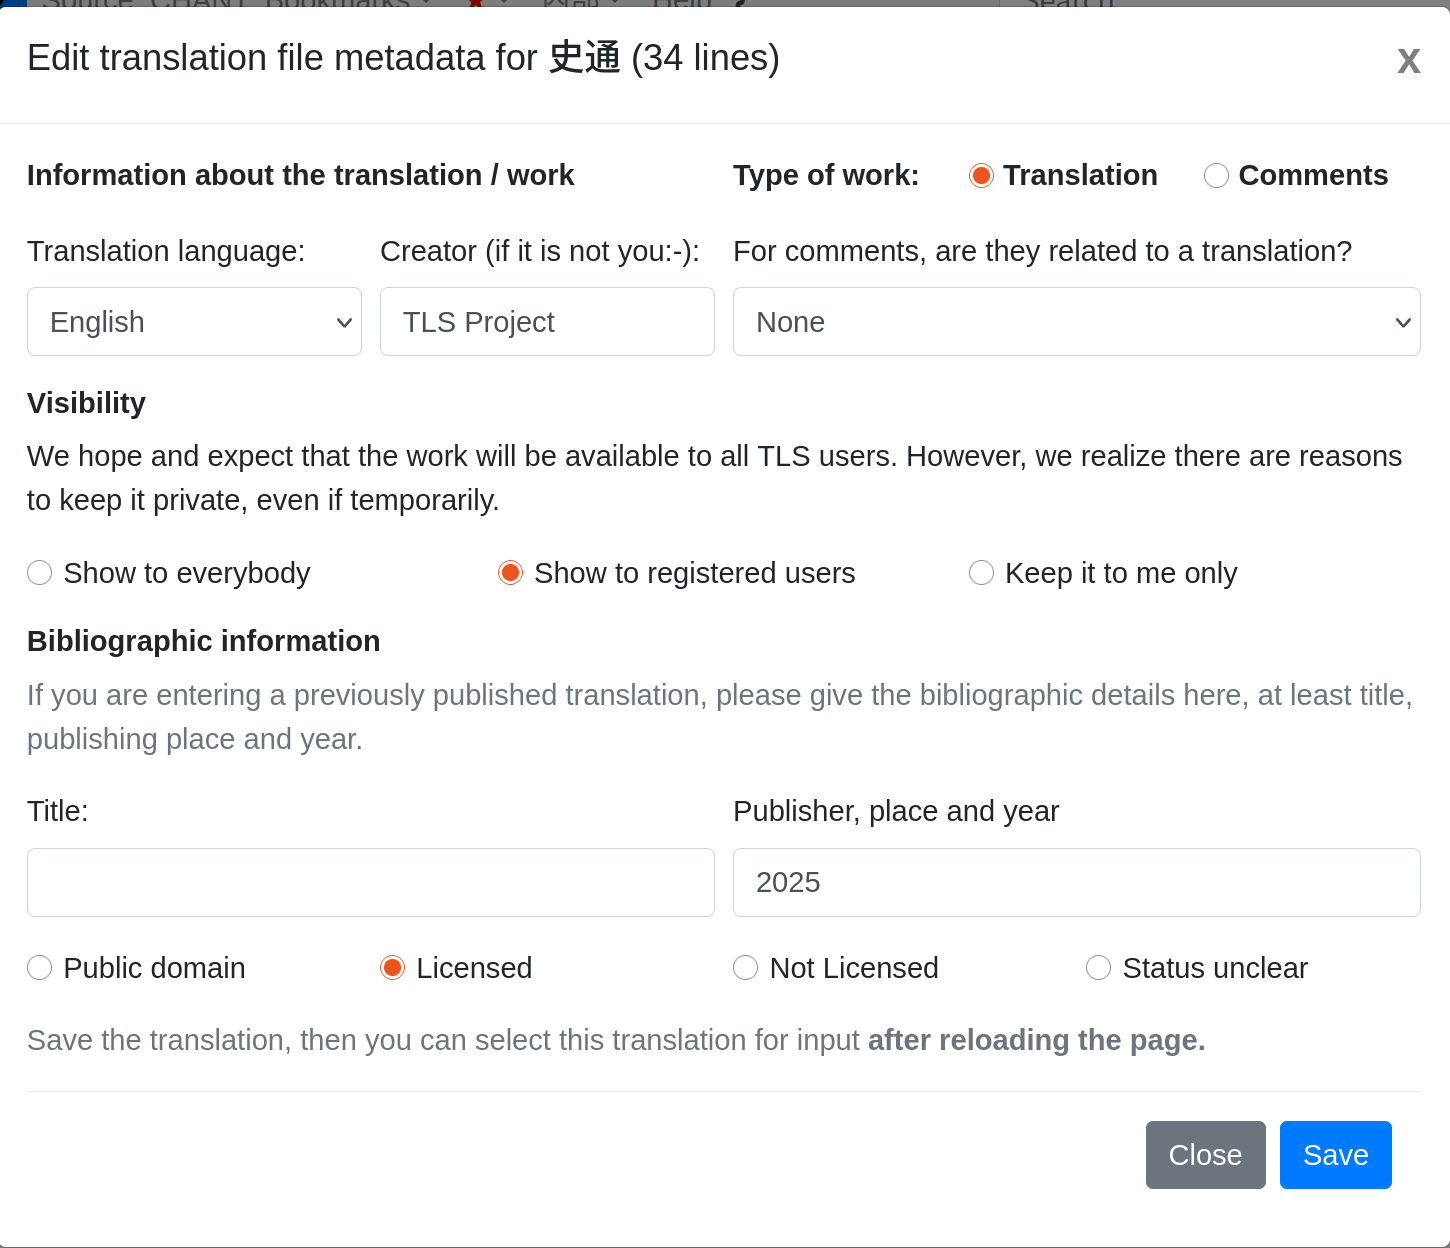
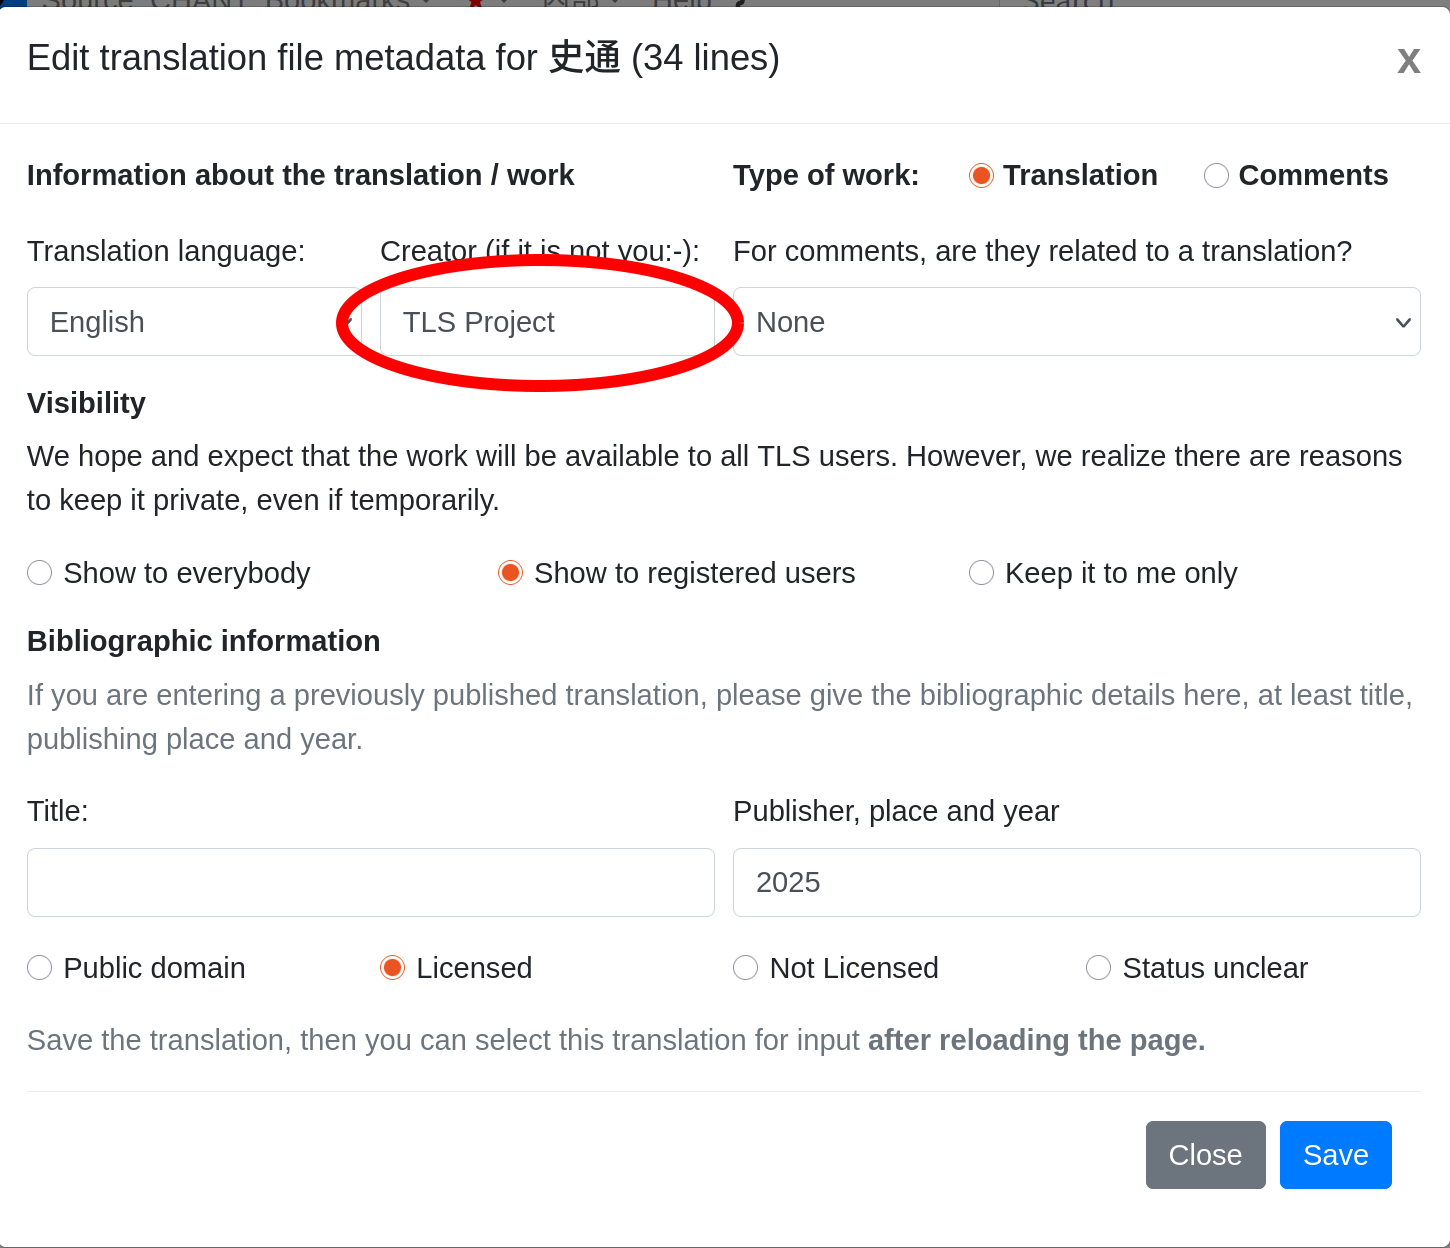
Quartz sync: Apr 25, 2025, 1:14 PM

Changed region(s): [[0.2172, 0.1875, 0.5276, 0.2812], [0.2483, 0.2812, 0.4966, 0.3125]]

diff --git a/content/2 User manual/Translation draft from AI.md b/content/2 User manual/Translation draft from AI.md
@@ -1,6 +1,6 @@
 ---
 created: 2025-04-25T11:31
-updated: 2025-04-25T12:05
+updated: 2025-04-25T13:14
 ---
 While I recognize that the current turn to AI is speeding up the waste of precious water and increases the dependency on non-sustainable sources of energy, and is often hallucinating and presenting its result eloquently and without shame, there is a pull from the sheer pleasure and convenience of having an astonishingly readable and in many cases justifiable translation of **any** passage of Classical Chinese appearing in an instance before your eyes!  You might have to try this to believe, so here is how you can do so.
 
@@ -12,7 +12,7 @@ While I recognize that the current turn to AI is speeding up the waste of precio
 
 This button is enabled for all users who are logged in by default, based on the following condition:
 
-The field *Creator* in the 'Edit translation file' dialog has to have the value 'TLS Project',
+The field *Creator* in the 'Edit [[Translation files|translation file]]' dialog has to have the value 'TLS Project',
 as shown here:
 
 ![[edit-translation-file-tls-project.png]]
